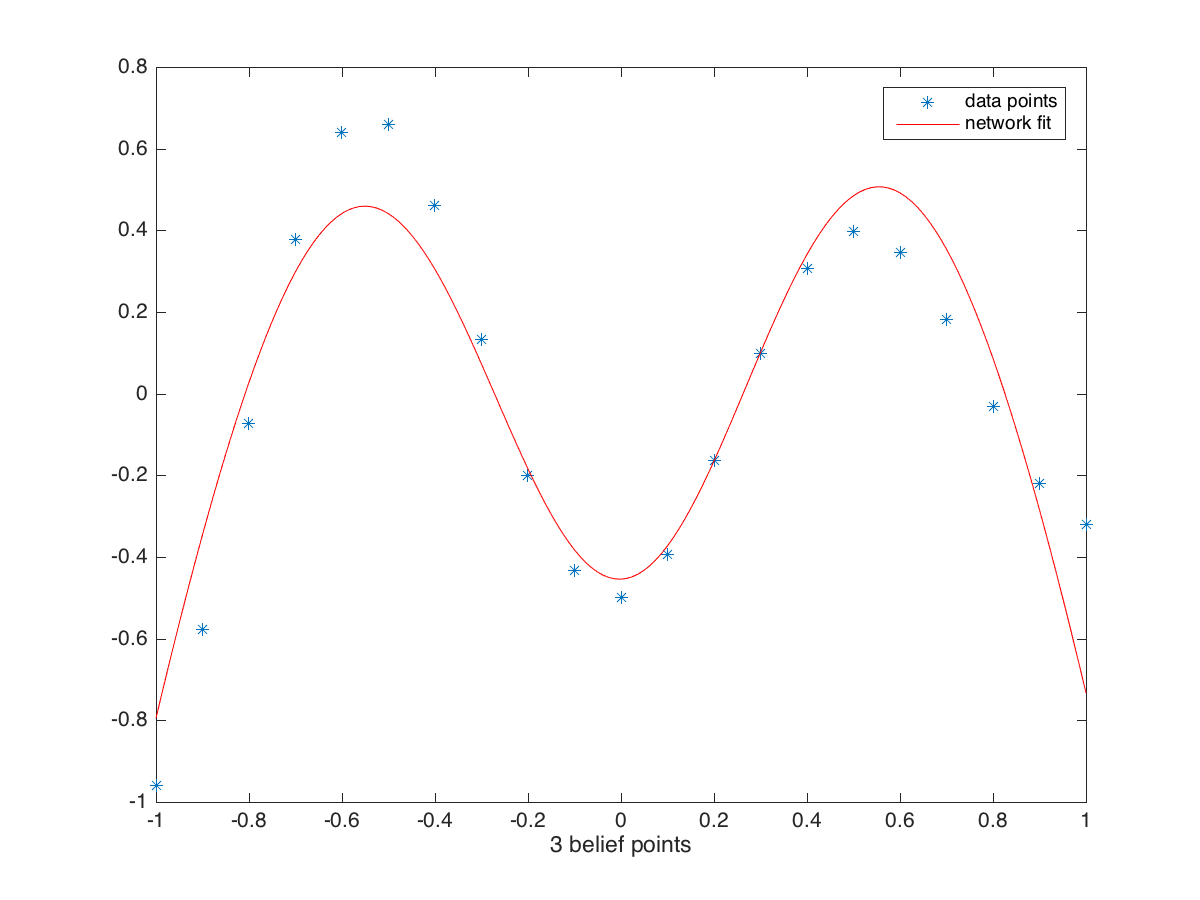
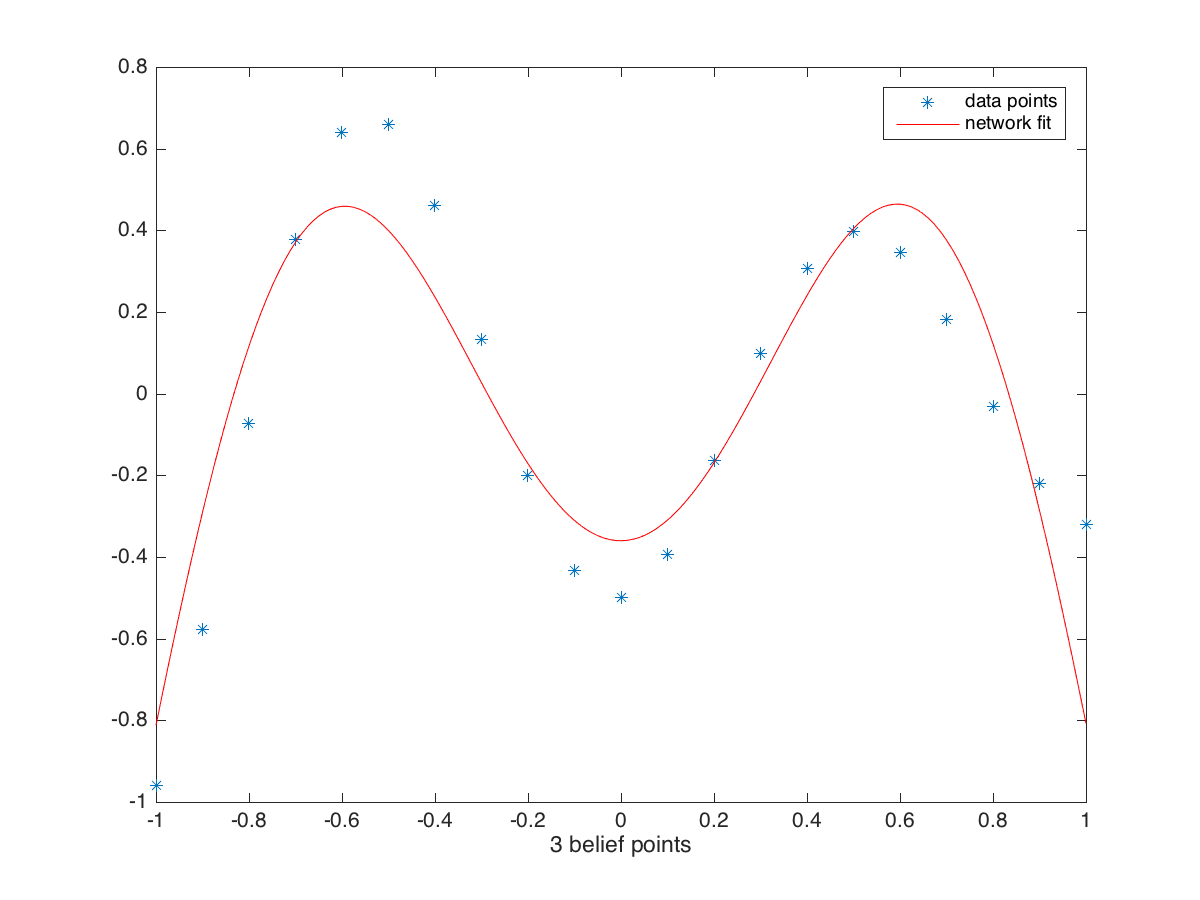
add two dimensional approximation with radial basis functions

diff --git a/radial_basis/TwoDimensionRBF.m b/radial_basis/TwoDimensionRBF.m
@@ -1,0 +1,54 @@
+% aproximate one dimensional results with RBF network 
+clear all;
+close all;
+
+fig = figure();
+
+T = peaks(25);
+subplot(1,2,1);
+surf(T);
+colormap(jet);
+title('target (25*25 points)');
+
+[x,y] = meshgrid(1:size(T,1),1:size(T,2));
+X = [y(:) x(:)];
+
+% train the gaussians weights
+[idx,mu,sumd,d] = kmeans(X,50);
+sigma = var(d).^(1/9);
+% sigma = sumd .* 9;
+
+for j=1:size(mu,1)
+    mu_all = repmat(mu(j,:),length(X),1);
+    distance = sum((X' - mu_all').^2);
+    phi(j,:) = exp(- distance' / (2*sigma(j).^2));
+end
+
+phi = phi';
+phi = [ones(size(phi,1),1) phi];
+
+%train output layer weigts 
+V = pinv(phi) * T(:);
+
+%plot the output for another set of input
+[x,y] = meshgrid(1:size(T,1),1:size(T,2));
+X = [y(:) x(:)];
+
+phi = [];
+
+for j=1:size(mu,1)
+    mu_all = repmat(mu(j,:),length(X),1);
+    distance = sum((X' - mu_all').^2);
+    phi(j,:) = exp(- distance' / (2*sigma(j).^2));
+end
+
+phi = phi';
+phi = [ones(size(phi,1),1) phi];
+
+Y = phi * V;
+Y =  reshape(Y,size(x,1),size(y,1)) ;
+
+subplot(1,2,2);
+surf(Y);
+colormap(jet);
+title('output (50 belief points)');

diff --git a/radial_basis/OneDimensionRBF.m b/radial_basis/OneDimensionRBF.m
@@ -17,8 +17,8 @@ plot(X,T,'*');
 hold on;
 
 %train the gaussians weights
-[idx,mu,~,d] = kmeans(X,3 );
-sigma = sqrt(var(d));
+[idx,mu,~,d] = kmeans(X,8);
+sigma = var(d).^(1/9);
 
 for j=1:size(mu,1)
     phi(j,:) = exp(- (X-mu(j)).^2 / (2*sigma(j).^2));
@@ -28,7 +28,7 @@ phi = [ones(size(phi,1),1) phi];
 
 %train output layer weigts 
 % omg = phi'*phi ;
-% V = pinv(omg + 0.2 * eye(size(omg)) ) * phi' * T ; 
+% V = pinv(omg + 0.2 * eye(size(omg)) ) * phi' * T ; %regularisation
 V = pinv(phi) * T;
 
 %plot the output for another set of input
